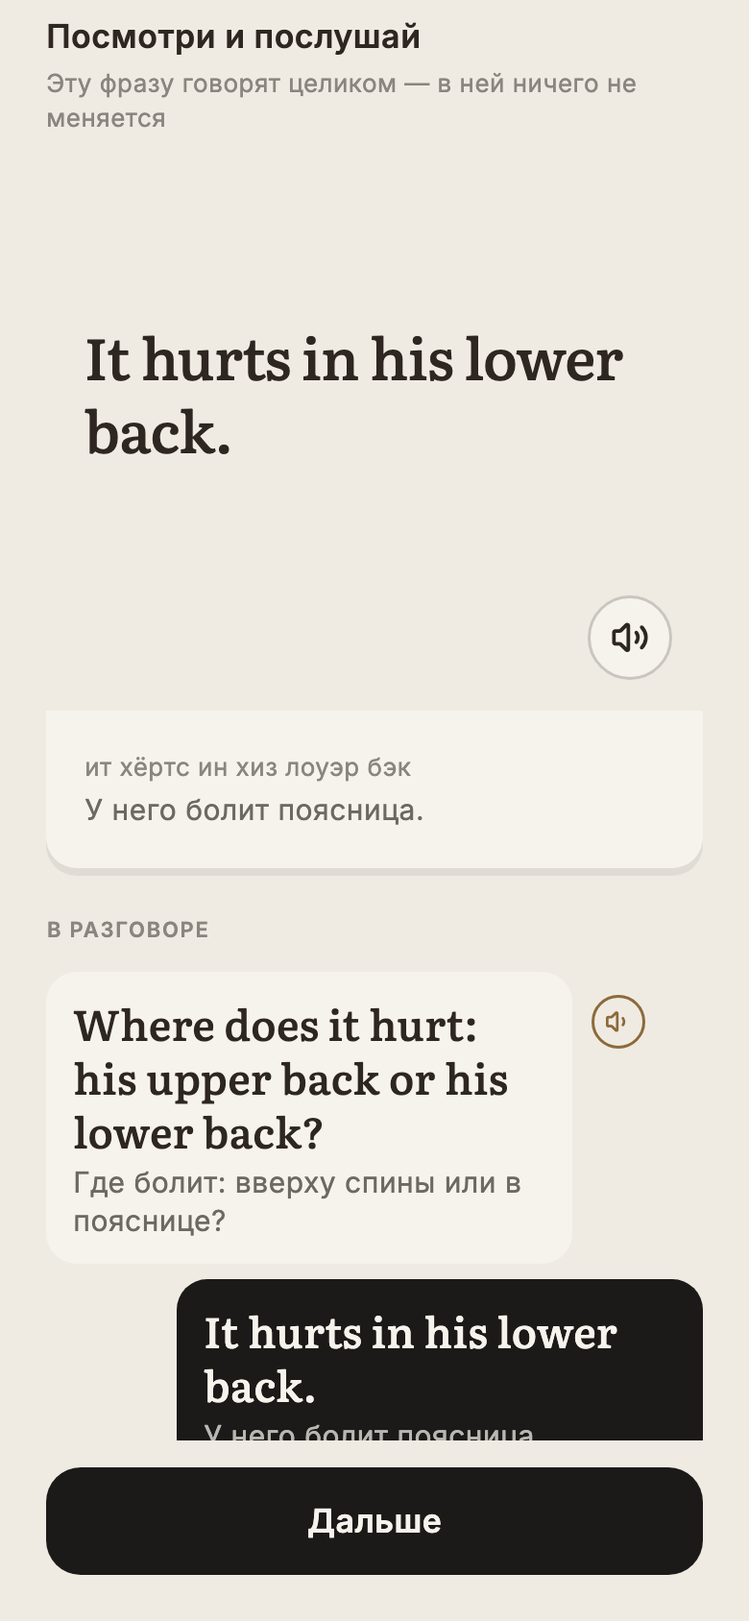
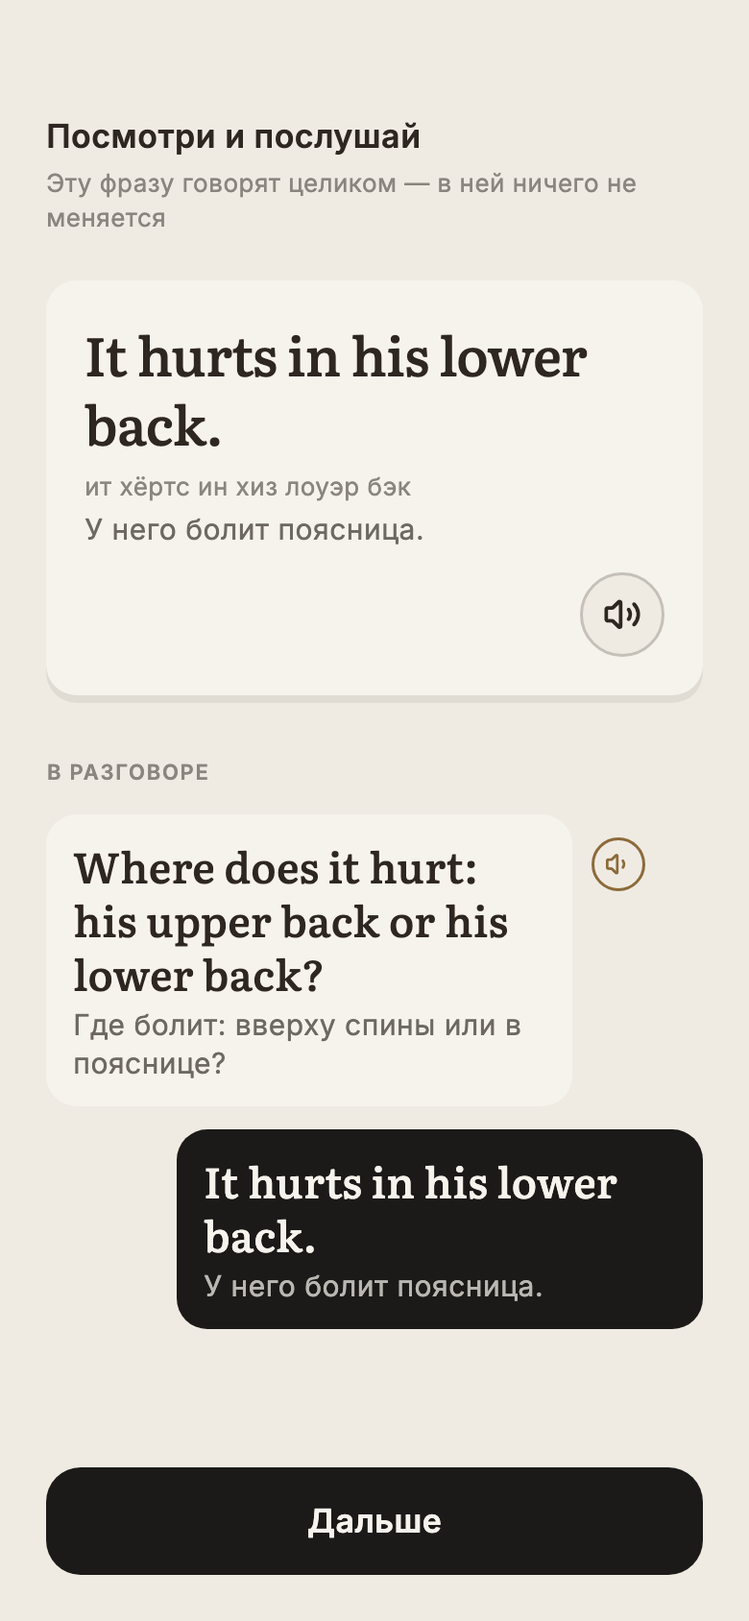
docs(plan): CLIENT-CONV-1a — все 26 снимков по приёмке, хеш и §1.8 в отчёте
Все 26 снимков заново (86a59479): со статус-баром 52, как телефон кадров,
и с восемью правками приёмки. Живые кадры 27–28 с симулятора против e2e
(фото сцены на 37-5, латунное кольцо «твоя очередь»; повторный вход —
без покупки). Отчёт §1.8 (восемь правок, решения, замеченные и не
тронутые расхождения), §2, §3, §6, §7; design-map; handoff.

diff --git a/backend2/docs/research/client-conv-1a/README.md b/backend2/docs/research/client-conv-1a/README.md
@@ -8,7 +8,7 @@
 замещает экран целиком; телефону принадлежат ровно три вещи, которых у сервера нет полей: звучит ли
 реплика роли, прервали ли её тапом и пять секунд молчания до чипа подсказки.
 
-Коммиты: `473a9e0f` (код и тесты), `feca5fdd` (отчёт, снимки, карта дизайна, ROADMAP, handoff), `5da280a4` (два дефекта живого прогона), `2e831558` (три находки второго живого прогона), `08e604ab` (первая правка 21.09: роль со строчной), `44858d2c` (вторая правка 21.09, по кадру: пара внутри пузыря, плашки 44).
+Коммиты: `473a9e0f` (код и тесты), `feca5fdd` (отчёт, снимки, карта дизайна, ROADMAP, handoff), `5da280a4` (два дефекта живого прогона), `2e831558` (три находки второго живого прогона), `08e604ab` (первая правка 21.09: роль со строчной), `44858d2c` (вторая правка 21.09, по кадру: пара внутри пузыря, плашки 44), `86a59479` (приёмка снимков: восемь правок по кадрам).
 
 ---
 
@@ -163,6 +163,56 @@
 - На симуляторе в последнем заходе «прослушать» не зазвучал (звук окружения: тест канона
   подтверждает, что тап доходит до кнопки и играет свою реплику; живой звук — на телефоне, §4.5).
 
+### 1.8. Приёмка снимков 21.09 — восемь правок по кадрам (`86a59479`)
+
+1. **37-7 «слушаю», 37-9.** Кнопка слушает с иконкой микрофона — квадрата «стоп» нет (37-9: «Вычтено: … квадрат
+   „стоп"»). Микрофон разговора стал 88-коробкой кадра с кнопкой 72 внутри; кольцо рисуется СНАРУЖИ коробки, как
+   `box-shadow` кадра: «слушаю» — полоса шалфея 8 на 30 % (пульс `om-pulse` 1,2 с: 8 → 12, .30 → .14). «Говори, я
+   слушаю» — над кнопкой, «тишина — конец» — под ней, по 14 от коробки (кольцо до подписей не достаёт). Повторный тап
+   — стоп. Пока пишет, в доке «Не понял» и кнопка: «Подсказать» уходит, как на картинке 37-7 «слушаю» (подпись кадра
+   держит «Не понял» во всех состояниях — он остаётся).
+2. **37-10 «не расслышал».** Снова «твоя очередь»: латунное кольцо 2 вокруг коробки (пульс `om-ring` 1,6 с: линия
+   2 растёт до 8 и тает), «тап — говорить» над кнопкой, «не расслышал — скажи ещё раз» — под ней. Кадр рисует в этом
+   состоянии знак «повторить» без кольца — сделано по правке: кнопка «твоя очередь».
+3. **37-12.** Фразы итога — плашки: сказанные — на подложке шалфея 15 %, несказанные — в контуре чернил 22 %;
+   скругление 16, поле 8/12, между плашками 8; «прослушать» 28 — внутри, в правом верхнем углу. То же в репетиции.
+4. **35-2 «не зачтено».** Своя реплика в тёмном пузыре — цветом бумаги (без приглушённых слов); строка судьи — Inter
+   15/500 чернилами, слева под пузырём от края ленты, в 8 под ним.
+5. **32-1.** Лист — ОДИН бумажный, как в кадре (поле 20, каркас Literata 28/36, чтение, перевод, «прослушать» 44 на
+   заливке фона в правом нижнем углу); прежний лист «плашка фона 288 + бумажный подвал» остался только у других
+   карточек серии 32. Значения — нейтральные серые плашки во всю ширину (ink 5 %, скругление 12, поле 8/12), слово
+   Literata 17/500 — по токенам «термин в списке слов» (картинка кадра — 22), перевод под ним; ничего не выделено —
+   и то, что в окне, тоже; не кнопки. Третье состояние влезает в кадр снимка целиком; на телефоне с длинной репликой
+   поле прокручивается до последнего пузыря над «Дальше» (проверено настоящими шрифтами на 844 и SE).
+6. **32-7.** Лист по кадру: поле 24, бровь «ФРАЗА», каркас с окном Literata 30/38, чтение фразы с этим значением,
+   родное предложение, «прослушать» 44 в правом нижнем углу — играет файл наполнения (фраза с этим значением). На
+   своём слове окно пустое: чтение держит пробел сервера `___` (кадр рисует точки, а многоточие код сессии не рисует
+   никогда — гард «текст не режется»), родное — `___` сервера, «прослушать» читает голос телефона по постоянной части
+   каркаса (файла у своего слова нет). Отступы кадра: 8 / 6 / 4 / 16, ряд плашек в 32 под листом.
+7. **34-5.** «Играет / пауза» — в контурном кружке 44 на заливке фона (контур чернил 22 %); внутри глифы кадра —
+   сплошной треугольник и две полосы (Lucide сплошного треугольника не имеет).
+8. **37-5.** Карточка с фото сцены между полосой и бровью: 170 в высоту, скругление 12, фото поверх тона сцены; без
+   фото — бумажная плашка того же размера. Отступы по кадру (20 / 20 / 8 / 4 / 24 / 14 / 24) — пустота между
+   «Без подсказок» и кнопкой ушла (≈ 80 на 844 против 86 кадра).
+
+**Харнесс снимков** снимает телефон со статус-баром 52, как телефон кадров: снимок показывает высоту, которая у
+карточки на самом деле есть (без него над «Начать разговор» оставалось лишних 52).
+
+Проверено на симуляторе против e2e (повторный вход, без покупки): `live/27-37-5-entry-photo.png` (настоящее фото
+сцены), `live/28-37-7-brass-ring.png` (латунное кольцо «твоя очередь»).
+
+**Замечено при сверке кадров и НЕ тронуто** — вне правки, решение за архитектором:
+
+- 37-5: у трёх строк правил в кадре — значки; строка переспроса в кадре «скажи „Sorry?" или нажми „Не понял"», у
+  нас «и он повторит проще» (обещание сервера, §5 п. 14).
+- 37-8 «врач думает»: в кадре над погашенной кнопкой — «слушай», у нас подписи нет.
+- 37-12: у строки «Понял все вопросы» в кадре — значок галки.
+- 32-1, третье состояние: у реплики собеседника в «В разговоре» кадр не рисует «прослушать».
+- 32-7: «Пропустить» в кадре — латунью, у нас серым (панель микрофона карточки); остальные карточки серии 32 — на
+  прежнем листе.
+- 34-5: своя реплика в кадре — широкий тёмный пузырь с длинной волной и «прослушать» 44 внутри; у нас — пузырь с
+  пятью столбиками и кружок 28 снаружи.
+
 ---
 
 ## §2. Что снесено
@@ -179,6 +229,10 @@
 | `PlanRouteStage.fromJson` | заменён `PlanRouteStage.maybe`: чужой этап пропускается |
 | кружок «прослушать» 28 рядом с пузырём роли и серое слово «текст» (`SessionTextExit`) под ним; затем ряд «прослушать» 44 + чип под пузырём (первая правка 21.09) | вторая правка 21.09, по кадру: «прослушать» 28 и чип «текст» (`TalkTextChip`) ВНУТРИ контейнера роли (`TalkPartnerBubble`) |
 | «Не понял» / «Подсказать» / «Пропустить» серыми словами (`SessionTextExit`) по бокам микрофона | контурные плашки 44 (`TalkPill`), 37-7 и 35-2 |
+| квадрат «стоп» в кнопке на записи; кольца-ореолы, прилипшие к кнопке 72 | 37-7, 37-9: иконка микрофона всегда; кольцо снаружи 88-коробки (`TalkMicRing`) |
+| `SessionInkLiveLine.dimPlain` — приглушённые слова в своём пузыре после отказа | 35-2 «не зачтено»: сказанное — бумагой, как любая своя реплика |
+| чипы-выбор значений 32-1 (`SessionTile`) и лист «плашка фона 288 + подвал» у 32-1 и 32-7 | нейтральные плашки значений и один бумажный лист по кадру (`_LessonSheet`) |
+| параметры старого листа `_PhrasePlate.height`, `_PhraseFooter.nativeStyle` | остались без вызовов после перехода 32-1 и 32-7 на новый лист |
 
 Отменено правило SESSION-2b §1 про выбор значения на 32-1 и правило FIX-1 §5 про «по смыслу ✓» в
 повторе — оба сняты кадрами, как они читаются сейчас. Названо здесь, чтобы не возвращалось молча.
@@ -221,6 +275,23 @@
 | заглавная и точка сервера не попадают внутрь чужого предложения | «Скажи, что У моего сына температура.» — чип первого живого захода |
 | сокращение, вопрос и многоточие остаются как есть | правка регистра, которая портит «США» или съедает «?» и «...» |
 | родительный падеж после «около» | «около 3 минуты» на входе 37-5 — первый живой заход |
+
+### Приёмка снимков 21.09 — по тесту на пункт
+
+| тест | что ловит |
+|---|---|
+| слушаю: иконка микрофона, кольцо шалфея, «тишина — конец» под кнопкой; повторный тап — стоп (`talk_canon_test`) | квадрат «стоп» на записи, «тишина — конец» над кнопкой, подписи под кольцом |
+| не расслышал: латунное кольцо «твоя очередь», строка под кнопкой | кольцо шалфея после «не расслышал», строка на месте подписи |
+| 37-12 день / репетиция: сказанные — на шалфее 15 %, несказанные — в контуре; «прослушать» 28 внутри | строки без плашек с кружком снаружи |
+| не зачтено — реплика бумагой, строка судьи чернилами слева (`session_speak_cards_test`) | серая реплика в пузыре и серая строка судьи справа |
+| 32-1: значения — нейтральные плашки во всю ширину, ничего не выбрано (`session_cards_test`) | чипы-выбор, обведённое значение в окне, лист, разрезанный на плашку и подвал |
+| 32-1, третье состояние: в кадре снимка всё влезает; на 844 и SE прокручивается до последнего пузыря (`lesson_card_layout_test`, настоящие шрифты) | пузырь «В разговоре», срезанный кнопкой |
+| 32-7: лист по кадру — бровь, каркас с окном, чтение, перевод, «прослушать» 44 в углу | лист без чтения и без звука |
+| 34-5: «играет/пауза» — в контурном кружке 44 (`session_listen_cards_test`) | голый треугольник без кружка |
+| 37-5: фото сцены между полосой и бровью, пустоты над кнопкой нет; без фото — бумажная плашка (`talk_entry_test`, настоящие шрифты и статус-бар 52) | вход без фото с пустотой над «Начать разговор»; схлопнутая карточка |
+
+Раскладка 32-7 (`say_whole_layout_test`) теперь меряется настоящими шрифтами: тестовый шрифт рисует каждую букву в
+кегль шириной, и лист по кадру на нём выходил вдвое выше, чем на телефоне.
 
 ### Полоса сцены — `mobile/test/features/plan/session/session_scene_strip_test.dart`
 
@@ -543,7 +614,8 @@ cd mobile && flutter test test/features/plan/conversation/talk_shots_test.dart -
 
 Без ключа тот же файл — обычный тест: каждый экран рисуется и ничего не переполняет.
 
-**Все 26 перерисованы** по второй правке 21.09 (`44858d2c`): реплика роли — контейнер с парой внутри,
+**Все 26 перерисованы заново** по приёмке снимков (`86a59479`) — со статус-баром 52, как телефон кадров, и с
+восемью правками §1.8. До того — по второй правке 21.09 (`44858d2c`): реплика роли — контейнер с парой внутри,
 по бокам микрофона — плашки 44, роль в полосе со строчной, пометка «переспросил» и своя реплика в
 полёте живого прогона. Шесть кадров (18–19, 23–26: 34-5 и серия 32) вышли байт в байт прежними — на
 них нет ни реплики роли, ни дока микрофона, ни полосы. Харнесс слушает «тихую комнату»
@@ -564,13 +636,15 @@ cd mobile && flutter test test/features/plan/conversation/talk_shots_test.dart -
 | правка архитектора 21.09: «прослушать» 44 и «текст» под пузырём, роль в полосе со строчной | `08e604ab` |
 | снимки 03, 07, 13, 20, живые кадры 24–25, отчёт §1.7 | `5581931b` |
 | вторая правка 21.09, по кадру: пара внутри контейнера роли, плашки 44 | `44858d2c` |
-| все 26 снимков, живой кадр 26, отчёт §1.7 | коммит с этим отчётом |
+| все 26 снимков, живой кадр 26, отчёт §1.7 | `8b43c510` |
+| приёмка снимков 21.09: восемь правок по кадрам | `86a59479` |
+| все 26 снимков заново, живые кадры 27–28, отчёт §1.8 | коммит с этим отчётом |
 
 Ворота (в конце наряда, после `2e831558`): `flutter analyze` — **чисто**, `flutter test` — **1 605
 passed** (было 1 598 до второго захода; +4 теста живых находок, +3 — чип и минуты). После правки
 21.09 — **1 610 passed** (+5: ряд под пузырём в ленте и в 35-2, три — полоса сцены); после второй
 правки — **1 614 passed** (два теста первой правки переписаны по кадру, +4: кнопка в контейнере,
-плашки 44 в ленте и в 35-2, плашка по слову).
+плашки 44 в ленте и в 35-2, плашка по слову); после приёмки снимков — **1 625 passed** (+11 тестов §1.8).
 
 **Хук ворот два последних коммита не прогнал** (`2e831558`, `2a22db54`): он читает только ПЕРВОЕ
 `git` в строке, а коммит шёл одной строкой `git add … && git commit …` — хук увидел `add` и

diff --git a/backend2/docs/session-handoff.md b/backend2/docs/session-handoff.md
@@ -9,7 +9,7 @@
 
 Branch: `main`. Last updated: 2026-09-21. Закрыт наряд **CLIENT-CONV-1a** (только `mobile/`):
 **разговор в дне на клиенте** — шесть этапов из ответа сервера, экраны 37-5…37-12, переделка 34-5 и
-35-2 на ленте разговора, серия 32 по канве. Коммиты `473a9e0f`, `feca5fdd`, `5da280a4`, `2e831558`, `08e604ab`, `44858d2c`.
+35-2 на ленте разговора, серия 32 по канве. Коммиты `473a9e0f`, `feca5fdd`, `5da280a4`, `2e831558`, `08e604ab`, `44858d2c`, `86a59479`.
 Отчёт — `docs/research/client-conv-1a/README.md`, 26 снимков состояний — `…/shots/` (оставлены как
 есть, решение архитектора), живые кадры и стенограммы — `…/live/`.
 
@@ -19,6 +19,12 @@ Branch: `main`. Last updated: 2026-09-21. Закрыт наряд **CLIENT-CONV-
 «Пропустить» / «Подсказать» — контурные плашки 44. Все 26 снимков перерисованы; отчёт §1.7 — там же
 три замеченных, но не тронутых расхождения с кадрами (подпись «тишина — конец» и квадрат «стоп»,
 серая реплика после отказа в 35-2, тень чипа).
+
+**Приёмка снимков 21.09 — восемь правок по кадрам** (`86a59479`, отчёт §1.8): микрофон разговора — 88-коробка с
+кольцом снаружи (латунь «твоя очередь», шалфей «слушаю», иконка микрофона всегда, «тишина — конец» и «не расслышал»
+под кнопкой); итог 37-12 — плашки фраз; 35-2 «не зачтено» — реплика бумагой, строка судьи чернилами слева; 32-1 —
+один лист и нейтральные плашки значений; 32-7 — лист по кадру с чтением и звуком; 34-5 — «играет/пауза» в кружке 44;
+37-5 — фото сцены. Все 26 снимков заново (со статус-баром 52). В §1.8 — список замеченных, но не тронутых расхождений.
 
 **Живая проверка пройдена тапами на симуляторе** (iOS 26.5) против `wordtrainer_e2e_test`, два захода
 до итога дня: вход, чип, ход, «врач думает», подчерк фраз, переспрос, **прерывание** реплики роли,
